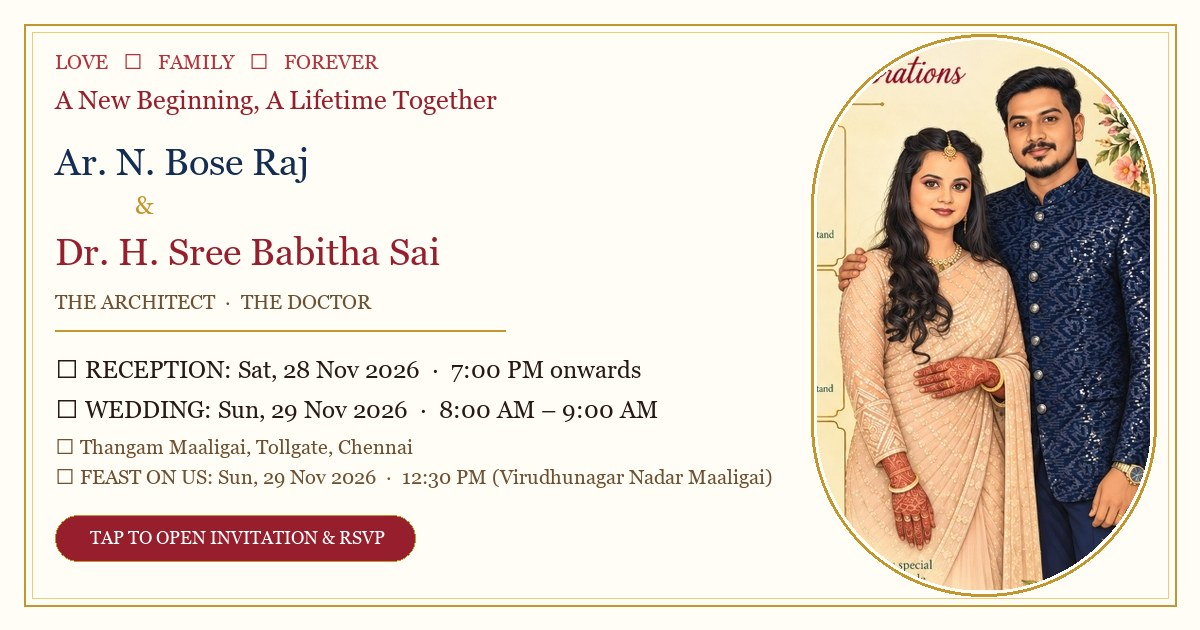
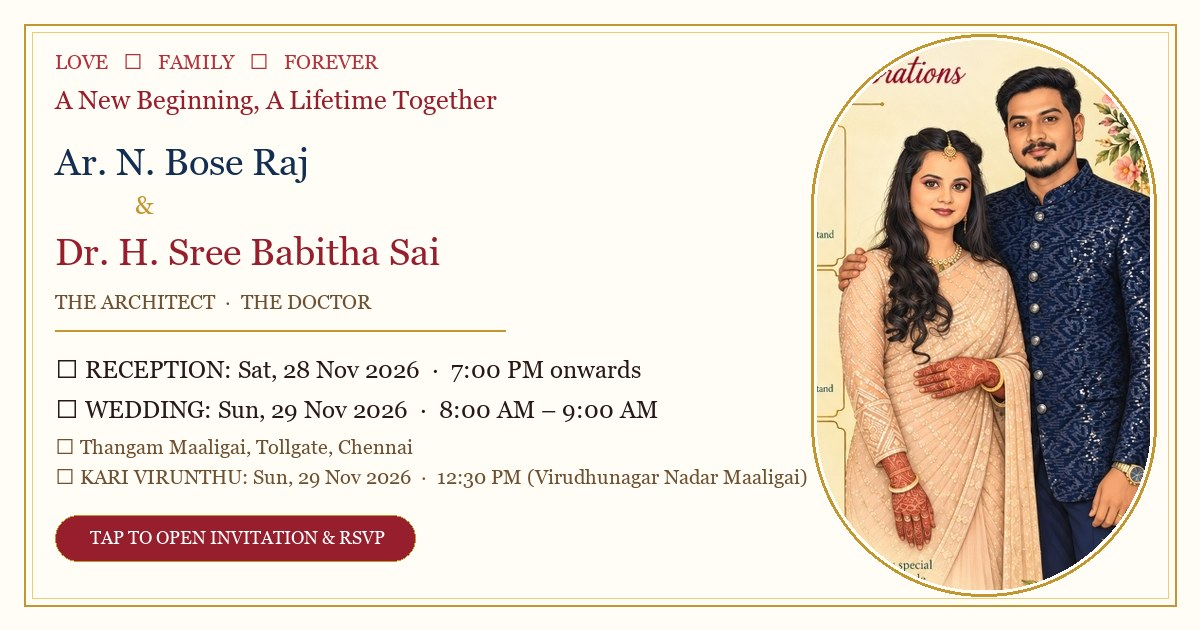
Update feast to Traditional South Indian Kari virunthu served with love

Changed region(s): [[0.0617, 0.7238, 0.6783, 0.7841]]

diff --git a/script.js b/script.js
@@ -133,7 +133,7 @@ const EVENT_CONFIG = {
     {
       id: "feast",
       titleEn: "FEAST ON US",
-      titleTa: "கல்யாண விருந்து",
+      titleTa: "கல்யாண கறி விருந்து",
       iconSvg: `
         <svg viewBox="0 0 64 64" fill="none" stroke="currentColor" stroke-width="2.5" stroke-linecap="round" stroke-linejoin="round">
           <ellipse cx="32" cy="38" rx="26" ry="14" />
@@ -151,15 +151,15 @@ const EVENT_CONFIG = {
       venueNameTa: "விருதுநகர் நாடார் மாளிகை",
       venueDetailsEn: "27, Somu Chetty 5th St, Royapuram, Chennai - 600013",
       venueDetailsTa: "27, சோமு செட்டி 5வது தெரு, ராயபுரம், சென்னை - 600013",
-      transitEn: "Traditional South Indian feast served with love",
-      transitTa: "அறுசுவை நிறைந்த பாரம்பரிய தலைவாழை இலைத் திருமண விருந்து உபசரிப்பு",
+      transitEn: "Traditional South Indian Kari virunthu served with love",
+      transitTa: "அன்புடன் பரிமாறப்படும் பாரம்பரிய தென்னிந்திய கறி விருந்து",
       mapsUrl: "https://www.google.com/maps/search/?api=1&query=Virudhunagar+Nadar+Maaligai+Royapuram+Chennai",
       icsEvent: {
-        summary: "Wedding Feast: Ar. N. Bose Raj & Dr. H. Sree Babitha Sai",
+        summary: "Kari Virunthu: Ar. N. Bose Raj & Dr. H. Sree Babitha Sai",
         start: "20261129T070000Z",
         end: "20261129T093000Z",
         location: "Virudhunagar Nadar Maaligai, 27, Somu Chetty 5th St, Royapuram, Chennai - 600013",
-        description: "Wedding Feast (Virundhu) of Ar. N. Bose Raj & Dr. H. Sree Babitha Sai."
+        description: "Traditional South Indian Kari virunthu served with love for Ar. N. Bose Raj & Dr. H. Sree Babitha Sai."
       }
     }
   ],
